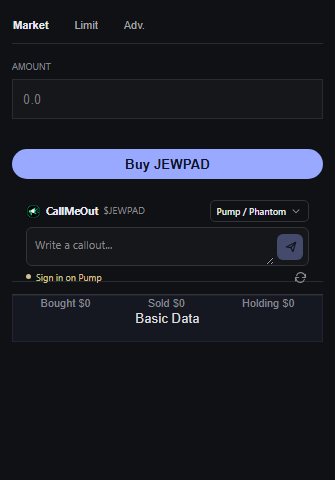
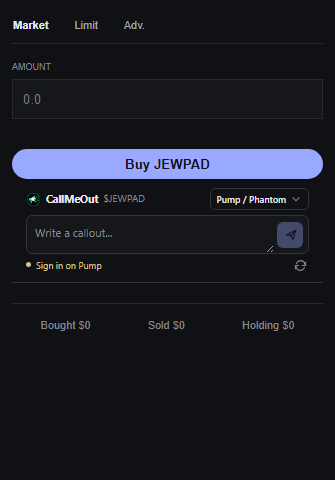
Fix GMGN trading panel placement

Changed region(s): [[0.0299, 0.4062, 0.9552, 0.6875], [0.0299, 0.6875, 0.0597, 0.7188]]

diff --git a/extension/content.js b/extension/content.js
@@ -89,26 +89,42 @@
     if (host === "axiom.trade") {
       const label = candidate("Make a callout");
       const button = label?.closest("button");
-      return button?.parentElement || null;
+      return button?.parentElement ? { node: button.parentElement, hide: true } : null;
     }
     if (host === "gmgn.ai") {
+      const calloutLabels = [...document.querySelectorAll("span")].filter(el => {
+        const rect = el.getBoundingClientRect();
+        return el.textContent?.trim() === "Callout" && rect.width > 0 && rect.x > innerWidth - 340;
+      });
+      for (const label of calloutLabels) {
+        let row = label;
+        while (row?.parentElement) {
+          const rect = row.getBoundingClientRect();
+          const border = parseFloat(getComputedStyle(row).borderBottomWidth);
+          if (rect.width >= 250 && rect.width <= 500 && rect.height >= 40 && rect.height <= 180 && border > 0) return { node: row, hide: true };
+          row = row.parentElement;
+        }
+      }
       const sections = ["Basic Data", "Token Audit", "Pool Info"];
       const leaves = [...document.querySelectorAll("span,div,button,h2,h3")].filter(el => {
         const rect = el.getBoundingClientRect();
-        return sections.includes(el.textContent?.trim()) && rect.width > 0 && rect.x > innerWidth * .58;
+        const value = el.textContent?.trim() || "";
+        return sections.some(name => value.startsWith(name) && value.length <= name.length + 8) && rect.width > 0 && rect.x > innerWidth - 340;
       });
-      leaves.sort((a, b) => sections.indexOf(a.textContent.trim()) - sections.indexOf(b.textContent.trim()) || a.getBoundingClientRect().width - b.getBoundingClientRect().width);
+      const priority = el => sections.findIndex(name => el.textContent.trim().startsWith(name));
+      leaves.sort((a, b) => priority(a) - priority(b) || a.textContent.length - b.textContent.length);
       const label = leaves[0];
       let section = label;
       while (section?.parentElement) {
         const rect = section.getBoundingClientRect();
-        if (rect.width >= 250 && rect.width <= 500 && rect.height >= 25) return section;
+        if (rect.width >= 250 && rect.width <= 500 && rect.height >= 25) return { node: section, hide: false };
         section = section.parentElement;
       }
       return null;
     }
     const label = candidate("Token Data & Security");
-    return label?.closest(".MuiAccordion-root") || label?.closest('[class*="Accordion-root"]') || null;
+    const node = label?.closest(".MuiAccordion-root") || label?.closest('[class*="Accordion-root"]');
+    return node ? { node, hide: false } : null;
   }
   function solidBackground(element) {
     for (let current = element; current; current = current.parentElement) {
@@ -137,22 +153,23 @@
       root.style.setProperty("--cm-accent-ink", getComputedStyle(buy).color);
     }
   }
-  let mountedNode = null;
+  let mountedPlacement = null;
   let mountedDisplay = "";
   function place() {
     if (!relevant()) {
-      if (mountedNode && host === "axiom.trade") mountedNode.style.display = mountedDisplay;
-      mountedNode = null;
+      if (mountedPlacement?.hide) mountedPlacement.node.style.display = mountedDisplay;
+      mountedPlacement = null;
       root.remove();
       return;
     }
-    const node = mountedNode?.isConnected ? mountedNode : anchor();
+    const placement = mountedPlacement?.node.isConnected ? mountedPlacement : anchor();
+    const node = placement?.node;
     if (!node?.parentElement) return;
-    if (node !== mountedNode) mountedDisplay = node.style.display;
-    mountedNode = node;
+    if (node !== mountedPlacement?.node) mountedDisplay = node.style.display;
+    mountedPlacement = placement;
     if (root.parentElement !== node.parentElement || root.nextElementSibling !== node) node.parentElement.insertBefore(root, node);
     applyTheme(node);
-    if (host === "axiom.trade") node.style.display = "none";
+    if (placement.hide) node.style.display = "none";
   }
   async function walletList() {
     const info = await request("WALLETS");

diff --git a/extension/README.md b/extension/README.md
@@ -26,7 +26,7 @@ The key is entered only on the extension's own page. The extension sends the log
 
 ## Posting
 
-The composer reads the Solana token mint from the page. Axiom URLs can contain a pair address, so the extension reads the actual mint from the page's Pump link. GMGN's token path and `?chain=sol&token=...` URL both work; the composer sits above **Basic Data**. Pump's `/callout/eligibility/{mint}` response determines posting eligibility for the selected wallet; a balance shown by a trading site may belong to another wallet.
+The composer reads the Solana token mint from the page. Axiom URLs can contain a pair address, so the extension reads the actual mint from the page's Pump link. GMGN's token path and `?chain=sol&token=...` URL both work. On GMGN, the composer replaces the native Callout row when present and otherwise sits above **Basic Data**. Pump's `/callout/eligibility/{mint}` response determines posting eligibility for the selected wallet; a balance shown by a trading site may belong to another wallet.
 
 Write a callout, press the send icon, review it, then press **Publish on Pump**. Eligibility is checked again before submission. Drafts are saved per token. The extension does not trade or bulk publish.
 
